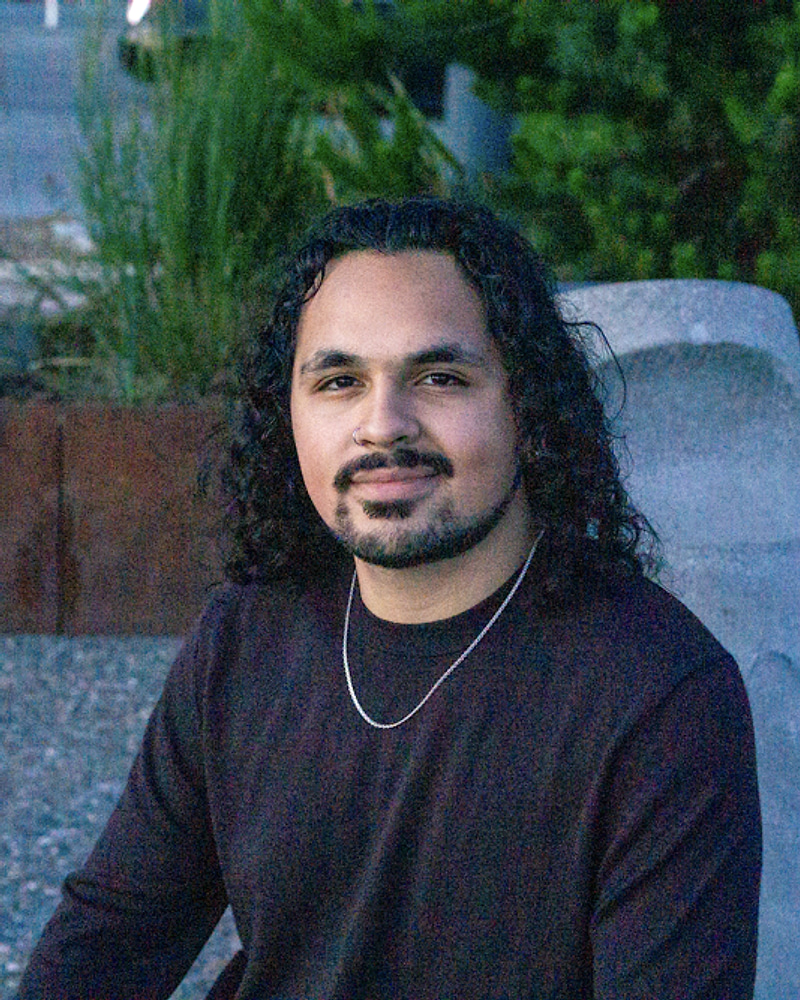
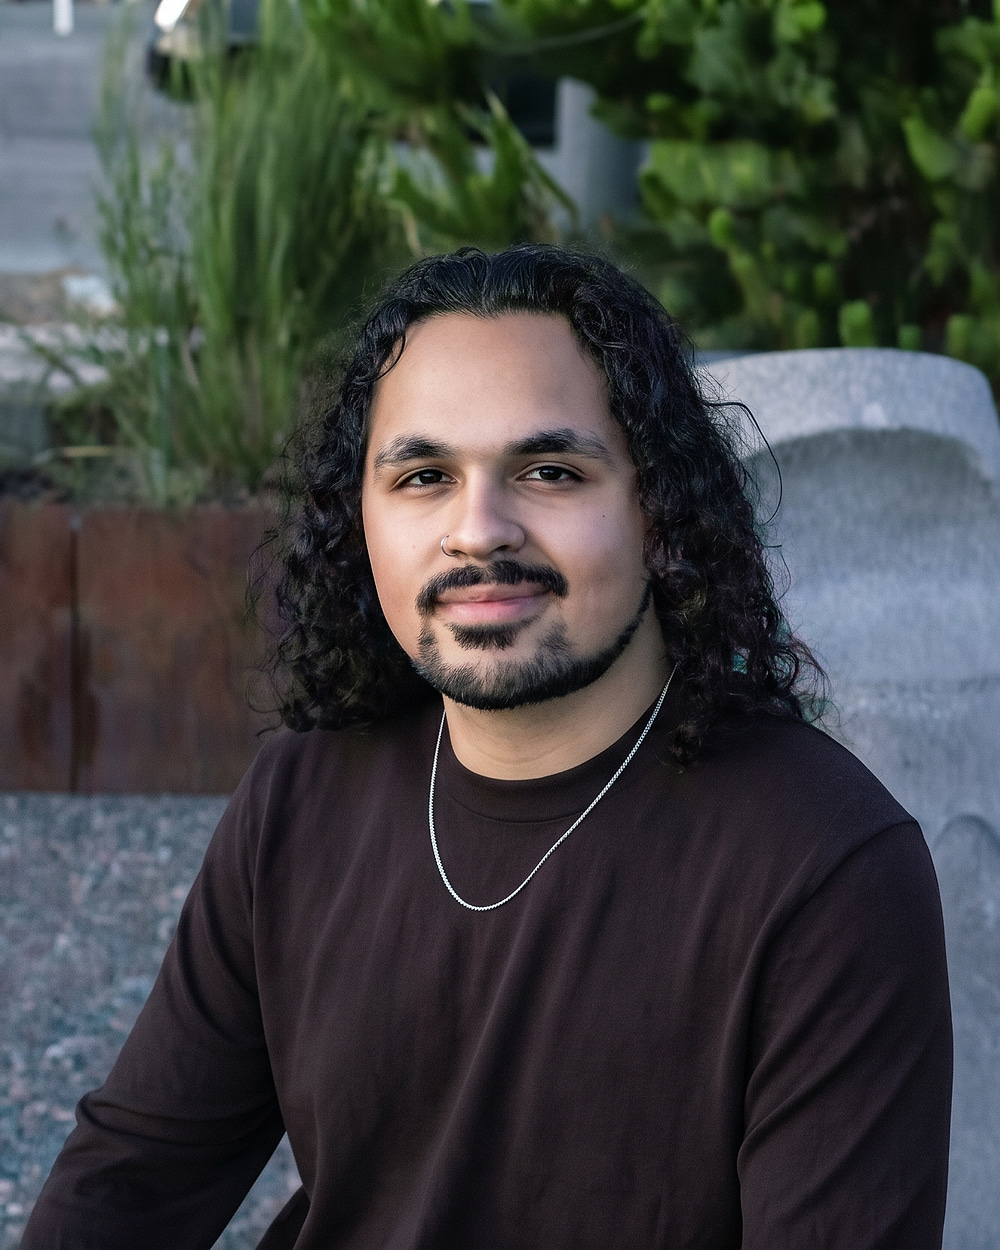
Headshot from the higher-resolution Alvaro-Fixed.jpg: larger masters, no extra polish

diff --git a/docs/progress.md b/docs/progress.md
@@ -112,3 +112,7 @@
 
 - Grit demo, sandbox card (4th) and Work showcase (3rd, "Concept project"); live-sites timing tests relaxed for slow headless GL (start under 6 s, longest still under 1.5 s).
 - Verified: typecheck/lint/format clean, 260 unit, e2e 571+ passed with timing tests stable over repeated runs, Lighthouse `/` and `/sandbox` 100 on all categories (mobile).
+
+## 2026-10-09 — Headshot from Alvaro-Fixed.jpg
+
+- Switched the source to `C:\Users\Alvaro\Desktop\Alvaro-Fixed.jpg` (2528x1686, already colour-corrected, about 2.5x the pixels of the old TIF). Same crop fractions; tonal polish switched off for it (`polish: false` in `scripts/make-team-photos.mjs`); masters 1000x1250 card and 384x384 avatar; delivered widths 320 to 1000. `/team` mobile LCP 1.7 s, Performance 99 to 100. The previous master is in git history (commit feb5f1f) if needed.

diff --git a/docs/admin-setup.md b/docs/admin-setup.md
@@ -93,7 +93,7 @@ network) and checks the commit each Save would make.
 Photos on `/team` and the avatars under the home reviews live in `src/assets/team/`, found by founder
 id. Alvaro's are `alvaro-card.jpg` (portrait) and `alvaro-avatar.jpg` (small square), high-quality JPEG masters that the site build turns into AVIF in a single step, made by
 `node scripts/make-team-photos.mjs` (reads the original from `TEAM_PHOTO_ALVARO`, default
-`C:/Users/Alvaro/Desktop/Alvaro-5.tif`; the original is never copied into the repo).
+`C:/Users/Alvaro/Desktop/Alvaro-Fixed.jpg`; the original is never copied into the repo).
 
 To add Aaron's photo: run `node scripts/make-team-photos.mjs aaron path/to/his-photo.jpg`. It writes
 `src/assets/team/aaron-card.jpg` and `aaron-avatar.jpg`, which replace the designed placeholder
